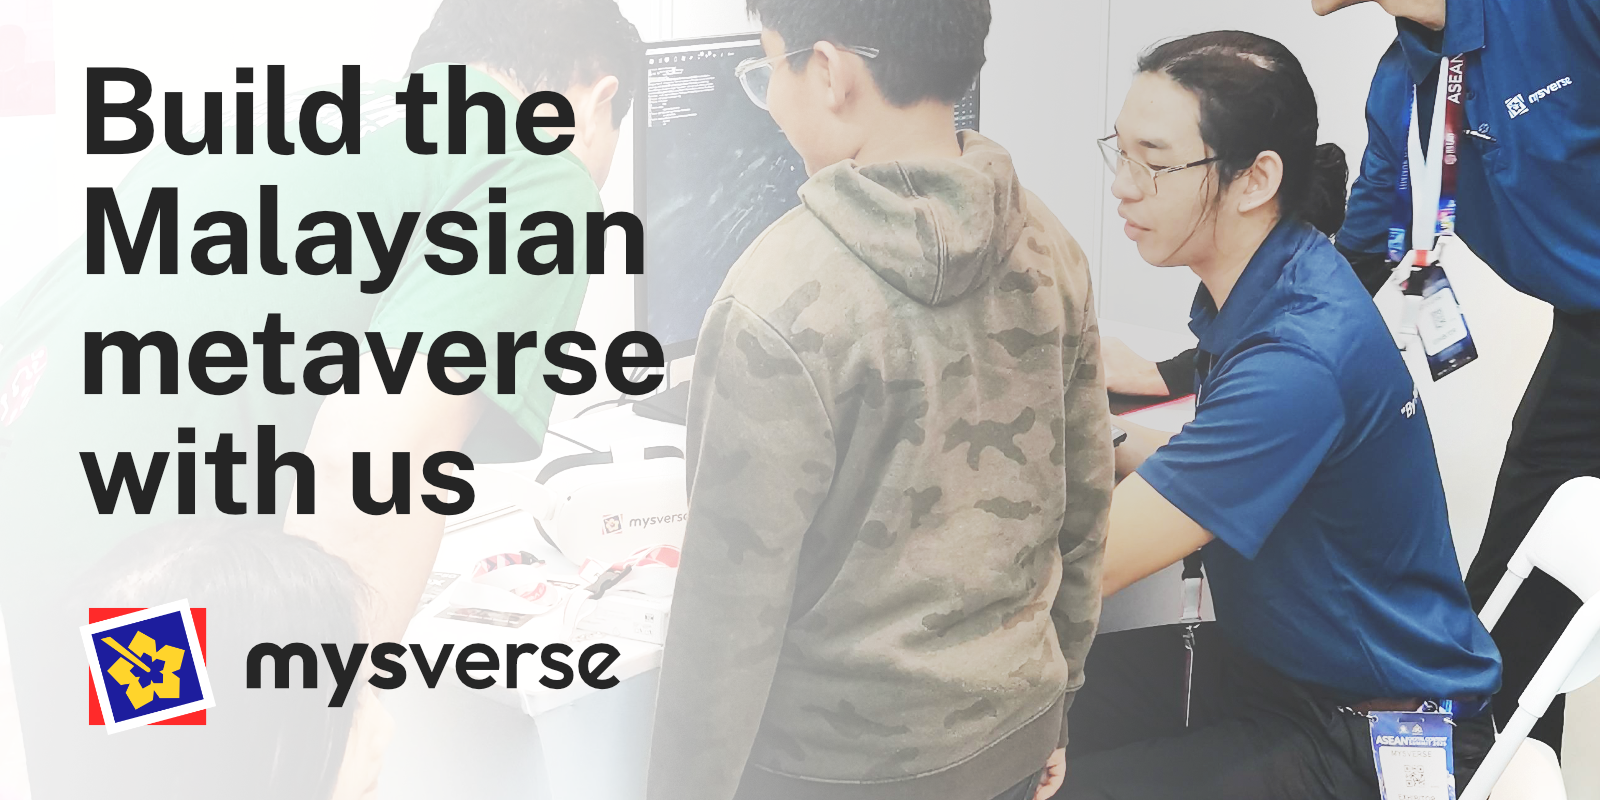
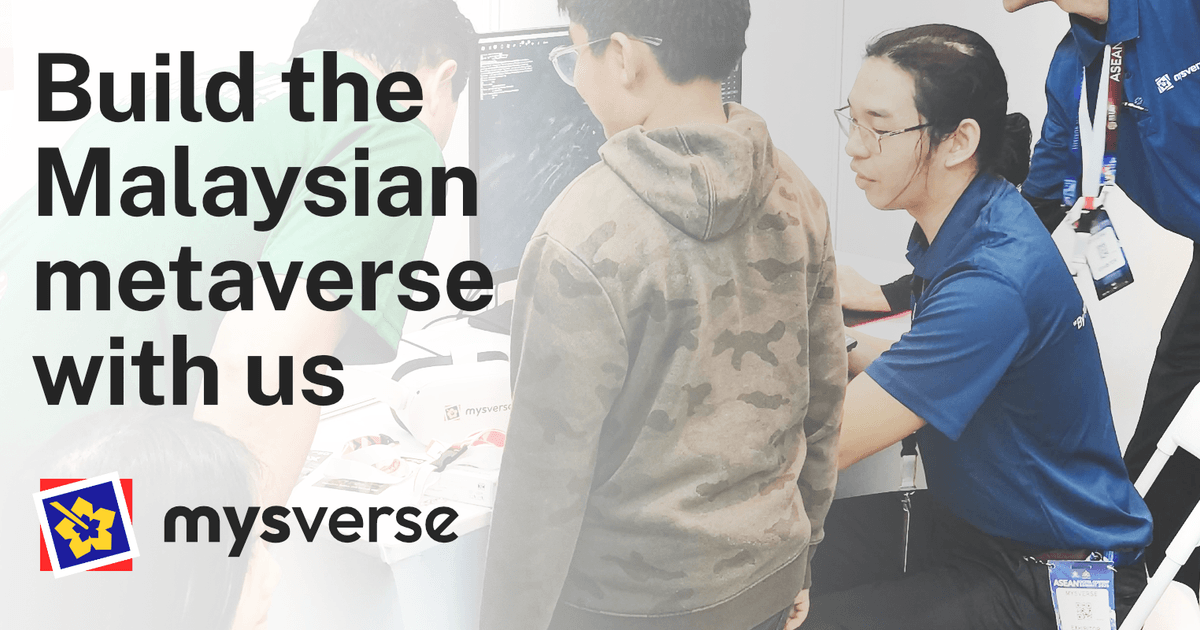
chore(hygiene): formatting, dead assets, primitive dogfooding
- prettier normalized across app/, styles/, data/ (7 drifted files)
- unreferenced beaufort_4k/beaufort_feature_2 webp deleted (~1.4MB);
  brand SVGs (BIMI/logomarks) kept — likely referenced externally
- contribute_og.png recompressed 1.28MB -> 289KB and resized to its
  declared 1200x630
- Section/Card primitives wired into Blog section, blog empty state,
  Contact + ContactRouter cards (knip-clean vs main baseline)
- ContactRouter: redundant focus-visible:outline dupes removed,
  remaining muted-text spellings onto tokens

diff --git a/app/_components/ContactRouter.tsx b/app/_components/ContactRouter.tsx
@@ -7,6 +7,7 @@ import { AnimatePresence, type Variants } from "motion/react";
 import { usePlausible } from "next-plausible";
 import { ArrowLeftIcon, ChevronRightIcon } from "@heroicons/react/20/solid";
 import Button from "app/_components/ui/Button";
+import { cardSurface } from "app/_components/ui/Card";
 import { springSnappy } from "app/_components/Motion/transitions";
 import {
   enquiryCategories,
@@ -120,12 +121,7 @@ export default function ContactRouter({ className }: { className?: string }) {
   }
 
   return (
-    <div
-      className={clsx(
-        "border-edge bg-surface-card flex h-full flex-col rounded-2xl border p-10 shadow-sm",
-        className
-      )}
-    >
+    <div className={clsx(cardSurface, "flex h-full flex-col p-10", className)}>
       <div aria-live="polite" className="relative grow">
         {/* Always mounted so it defines the card height on both steps */}
         <m.div
@@ -170,7 +166,7 @@ export default function ContactRouter({ className }: { className?: string }) {
                   onClick={() => selectCategory(category)}
                   whileHover={{ x: 4 }}
                   whileTap={{ scale: 0.98 }}
-                  className="group hover:border-primary focus-visible:outline-primary border-edge bg-surface-raised flex h-full w-full items-center gap-x-3 rounded-xl border p-3 text-left transition-colors focus-visible:outline focus-visible:outline-2 focus-visible:outline-offset-2"
+                  className="group hover:border-primary focus-visible:outline-primary border-edge bg-surface-raised flex h-full w-full items-center gap-x-3 rounded-xl border p-3 text-left transition-colors focus-visible:outline-2 focus-visible:outline-offset-2"
                 >
                   <span className="bg-primary/10 text-primary flex size-9 flex-none items-center justify-center rounded-lg">
                     {category.icon}
@@ -179,11 +175,11 @@ export default function ContactRouter({ className }: { className?: string }) {
                     <span className="text-strong block text-sm font-semibold">
                       {getCategoryLabel(category)}
                     </span>
-                    <span className="block text-xs leading-5 text-gray-600 dark:text-white/60">
+                    <span className="text-body block text-xs leading-5">
                       {getCategoryDesc(category)}
                     </span>
                   </span>
-                  <ChevronRightIcon className="size-5 flex-none text-gray-400 transition-transform group-hover:translate-x-0.5 motion-reduce:transition-none dark:text-white/40" />
+                  <ChevronRightIcon className="text-muted size-5 flex-none transition-transform group-hover:translate-x-0.5 motion-reduce:transition-none" />
                 </m.button>
               </m.li>
             ))}
@@ -207,7 +203,7 @@ export default function ContactRouter({ className }: { className?: string }) {
               <button
                 type="button"
                 onClick={goBack}
-                className="hover:text-primary focus-visible:outline-primary inline-flex items-center gap-x-1.5 text-sm font-medium text-gray-500 transition-colors focus-visible:outline focus-visible:outline-2 focus-visible:outline-offset-2 dark:text-white/60 dark:hover:text-white"
+                className="hover:text-primary focus-visible:outline-primary text-muted inline-flex items-center gap-x-1.5 text-sm font-medium transition-colors focus-visible:outline-2 focus-visible:outline-offset-2"
               >
                 <ArrowLeftIcon className="size-4" />
                 {t("back")}
@@ -215,9 +211,7 @@ export default function ContactRouter({ className }: { className?: string }) {
               <h3 className="text-strong mt-4 text-base leading-7 font-semibold">
                 {getResultHeading(selected)}
               </h3>
-              <p className="mt-2 text-sm leading-6 text-gray-600 dark:text-white/70">
-                {getResultBody(selected)}
-              </p>
+              <p className="body-sm mt-2">{getResultBody(selected)}</p>
               <div className="mt-6 flex flex-col gap-3 sm:flex-row sm:flex-wrap">
                 {selected.destinations.map((destination) => (
                   <DestinationCta
@@ -232,9 +226,7 @@ export default function ContactRouter({ className }: { className?: string }) {
           )}
         </AnimatePresence>
       </div>
-      <p className="mt-6 border-t border-gray-100 pt-4 text-xs leading-5 text-gray-500 dark:border-white/10 dark:text-white/60">
-        {t("note")}
-      </p>
+      <p className="border-edge caption mt-6 border-t pt-4">{t("note")}</p>
     </div>
   );
 }

diff --git a/app/[locale]/contribute/_components/TeamImpact.tsx b/app/[locale]/contribute/_components/TeamImpact.tsx
@@ -51,14 +51,12 @@ export default function TeamImpact() {
             />
             <div className="absolute inset-0 bg-linear-to-t from-gray-950/60 via-transparent to-transparent opacity-0 transition-opacity duration-300 group-hover:opacity-100" />
           </div>
-          <div className="p-6 sm:p-8 flex-1 flex flex-col justify-between">
+          <div className="flex flex-1 flex-col justify-between p-6 sm:p-8">
             <div>
               <h3 className="heading-4 group-hover:text-primary transition-colors">
                 {t("impact.players.title")}
               </h3>
-              <p className="body-sm mt-3">
-                {t("impact.players.desc")}
-              </p>
+              <p className="body-sm mt-3">{t("impact.players.desc")}</p>
             </div>
           </div>
         </m.div>
@@ -78,14 +76,12 @@ export default function TeamImpact() {
             />
             <div className="absolute inset-0 bg-linear-to-t from-gray-950/60 via-transparent to-transparent opacity-0 transition-opacity duration-300 group-hover:opacity-100" />
           </div>
-          <div className="p-6 sm:p-8 flex-1 flex flex-col justify-between">
+          <div className="flex flex-1 flex-col justify-between p-6 sm:p-8">
             <div>
               <h3 className="heading-4 group-hover:text-primary transition-colors">
                 {t("impact.networking.title")}
               </h3>
-              <p className="body-sm mt-3">
-                {t("impact.networking.desc")}
-              </p>
+              <p className="body-sm mt-3">{t("impact.networking.desc")}</p>
             </div>
           </div>
         </m.div>
@@ -105,14 +101,12 @@ export default function TeamImpact() {
             />
             <div className="absolute inset-0 bg-linear-to-t from-gray-950/60 via-transparent to-transparent opacity-0 transition-opacity duration-300 group-hover:opacity-100" />
           </div>
-          <div className="p-6 sm:p-8 flex-1 flex flex-col justify-between">
+          <div className="flex flex-1 flex-col justify-between p-6 sm:p-8">
             <div>
               <h3 className="heading-4 group-hover:text-primary transition-colors">
                 {t("impact.welcomePack.title")}
               </h3>
-              <p className="body-sm mt-3">
-                {t("impact.welcomePack.desc")}
-              </p>
+              <p className="body-sm mt-3">{t("impact.welcomePack.desc")}</p>
             </div>
           </div>
         </m.div>

diff --git a/app/_components/Blog/Blog.tsx b/app/_components/Blog/Blog.tsx
@@ -3,7 +3,7 @@ import { getPosts } from "utils/ghost";
 import BlogClient from "./BlogClient";
 import { Link } from "i18n/navigation";
 import { NewspaperIcon } from "@heroicons/react/20/solid";
-import Container from "app/_components/ui/Container";
+import Section from "app/_components/ui/Section";
 import { getTranslations } from "next-intl/server";
 
 export default async function Blog({ blogType }: { blogType: BlogType }) {
@@ -11,28 +11,23 @@ export default async function Blog({ blogType }: { blogType: BlogType }) {
   const t = await getTranslations("Blog");
 
   return (
-    <section className="py-12 sm:py-24">
-      <Container>
-        <div className="mx-auto max-w-2xl text-center">
-          <h2 className="heading-2">
-            {blogType === "mys" ? t("mys.title") : t("nws.title")}
-          </h2>
-          <p className="body-lg mt-2 mb-4">
-            {blogType === "mys" ? t("mys.desc") : t("nws.desc")}
-          </p>
-          <Link
-            href={`/blog/${blogType}`}
-            prefetch={false}
-            className="text-muted hover:text-primary inline-flex items-center gap-1 text-sm leading-6 font-medium transition"
-          >
-            <NewspaperIcon className="mr-1 size-5" />
-            {t("viewMore")}
-          </Link>
-        </div>
-        <div className="mx-auto mt-12 grid max-w-2xl auto-rows-fr grid-cols-1 gap-8 sm:mt-16 lg:mx-0 lg:max-w-none lg:grid-cols-2">
-          <BlogClient blogType={blogType} initialPosts={initialPosts} />
-        </div>
-      </Container>
-    </section>
+    <Section
+      title={blogType === "mys" ? t("mys.title") : t("nws.title")}
+      description={blogType === "mys" ? t("mys.desc") : t("nws.desc")}
+    >
+      <div className="mt-4 text-center">
+        <Link
+          href={`/blog/${blogType}`}
+          prefetch={false}
+          className="text-muted hover:text-primary inline-flex items-center gap-1 text-sm leading-6 font-medium transition"
+        >
+          <NewspaperIcon className="mr-1 size-5" />
+          {t("viewMore")}
+        </Link>
+      </div>
+      <div className="mx-auto mt-12 grid max-w-2xl auto-rows-fr grid-cols-1 gap-8 sm:mt-16 lg:mx-0 lg:max-w-none lg:grid-cols-2">
+        <BlogClient blogType={blogType} initialPosts={initialPosts} />
+      </div>
+    </Section>
   );
 }

diff --git a/app/_components/Projects/ItemList.tsx b/app/_components/Projects/ItemList.tsx
@@ -108,7 +108,7 @@ export default function ItemList({ projects }: { projects: Project[] }) {
                   {name}
                 </h3>
                 <div className="mt-1 flex flex-row items-center gap-x-3 sm:mt-0 sm:flex-row-reverse">
-                  <span className="text-strong my-0.5 inline-flex items-center gap-x-1.5 rounded-md px-2 py-2 text-xs font-medium ring-edge ring-1 ring-inset">
+                  <span className="text-strong ring-edge my-0.5 inline-flex items-center gap-x-1.5 rounded-md px-2 py-2 text-xs font-medium ring-1 ring-inset">
                     <svg
                       className={clsx(
                         "size-1.5",
@@ -126,7 +126,7 @@ export default function ItemList({ projects }: { projects: Project[] }) {
                     {launched}
                   </span>
                   {location && (
-                    <span className="text-strong my-0.5 inline-flex items-center gap-x-1.5 rounded-md px-2 py-2 text-xs font-medium ring-edge ring-1 ring-inset">
+                    <span className="text-strong ring-edge my-0.5 inline-flex items-center gap-x-1.5 rounded-md px-2 py-2 text-xs font-medium ring-1 ring-inset">
                       <MapPinIcon className="fill-strong size-4" />
                       {location}
                     </span>
@@ -136,7 +136,7 @@ export default function ItemList({ projects }: { projects: Project[] }) {
                       href={project.link}
                       target={project.local ? undefined : "_blank"}
                       prefetch={false}
-                      className="text-strong group my-0.5 inline-flex items-center gap-x-1.5 rounded-md px-2 py-2 text-xs font-medium ring-edge ring-1 transition ring-inset hover:bg-primary hover:text-white"
+                      className="text-strong group ring-edge hover:bg-primary my-0.5 inline-flex items-center gap-x-1.5 rounded-md px-2 py-2 text-xs font-medium ring-1 transition ring-inset hover:text-white"
                     >
                       {project.link.includes("roblox.com") ? (
                         project.link.includes("/games") ? (

diff --git a/app/_components/Contact.tsx b/app/_components/Contact.tsx
@@ -1,9 +1,11 @@
 import { EnvelopeIcon, MapIcon, PhoneIcon } from "@heroicons/react/20/solid";
+import clsx from "clsx";
 
 import { Link } from "i18n/navigation";
 import PlausibleWrapper from "./PlausibleWrapper";
 import ContactRouter from "./ContactRouter";
 import Container from "app/_components/ui/Container";
+import { cardSurface } from "app/_components/ui/Card";
 import { useTranslations } from "next-intl";
 
 export default function Contact() {
@@ -19,7 +21,7 @@ export default function Contact() {
                 {t("title")}
               </h2>
               <p className="body-base mt-4">{t("desc")}</p>
-              <div className="border-edge bg-surface-card mt-8 rounded-2xl border p-10 shadow-sm">
+              <div className={clsx(cardSurface, "mt-8 p-10")}>
                 <h3 className="text-strong text-base leading-7 font-semibold">
                   MYSverse Digital Ventures
                 </h3>

diff --git a/app/[locale]/contribute/_components/PositionCard.tsx b/app/[locale]/contribute/_components/PositionCard.tsx
@@ -68,9 +68,7 @@ export default function PositionCard({
       <RotatingCard
         className={clsx(
           "bg-surface-card flex h-full flex-col rounded-2xl border p-6 shadow-sm",
-          isLead
-            ? "border-primary/30 ring-primary/20 ring-1"
-            : "border-edge"
+          isLead ? "border-primary/30 ring-primary/20 ring-1" : "border-edge"
         )}
       >
         <div className="flex items-center gap-3">
@@ -99,9 +97,7 @@ export default function PositionCard({
     <RotatingCard
       className={clsx(
         "bg-surface-card h-full rounded-2xl border p-8 shadow-sm transition-shadow hover:shadow-lg",
-        isLead
-          ? "border-primary/30 ring-primary/30 ring-1"
-          : "border-edge"
+        isLead ? "border-primary/30 ring-primary/30 ring-1" : "border-edge"
       )}
     >
       <div className="flex h-full flex-col">

diff --git a/app/_components/Blog/BlogClient.tsx b/app/_components/Blog/BlogClient.tsx
@@ -4,6 +4,7 @@ import { PostsOrPages } from "@tryghost/content-api";
 import { useTranslations } from "next-intl";
 
 import type { BlogType } from "utils/ghost";
+import Card from "app/_components/ui/Card";
 import { BlogPostCard } from "./BlogPostCard";
 
 export default function BlogClient({
@@ -17,10 +18,10 @@ export default function BlogClient({
 
   if (!initialPosts?.length) {
     return (
-      <div className="border-edge bg-surface-card col-span-full rounded-2xl border p-10 text-center shadow-sm">
+      <Card padding="lg" className="col-span-full text-center">
         <h3 className="heading-4">{t("empty.title")}</h3>
         <p className="body-sm mt-2">{t("empty.desc")}</p>
-      </div>
+      </Card>
     );
   }
 

diff --git a/styles/globals.css b/styles/globals.css
@@ -83,8 +83,8 @@
   --color-edge: var(--ms-border-edge);
 
   /* System mono stack — no mono webfont is loaded on purpose. */
-  --font-mono: ui-monospace, "SF Mono", Menlo, Consolas, "Liberation Mono",
-    monospace;
+  --font-mono:
+    ui-monospace, "SF Mono", Menlo, Consolas, "Liberation Mono", monospace;
 }
 
 /* ------------------------------------------------------------------ */

diff --git a/app/[locale]/contribute/_components/ApplyButton.tsx b/app/[locale]/contribute/_components/ApplyButton.tsx
@@ -7,10 +7,7 @@ import type { OpenPosition } from "data/contribute";
 import { useTranslations } from "next-intl";
 
 export type ApplyPlacement =
-  | "home"
-  | "contribute_hero"
-  | "role_card"
-  | "final_cta";
+  "home" | "contribute_hero" | "role_card" | "final_cta";
 
 interface ApplyButtonProps {
   position: OpenPosition;

diff --git a/data/enquiry.tsx b/data/enquiry.tsx
@@ -32,11 +32,7 @@ export interface EnquiryDestination {
   external?: boolean;
   icon: ReactNode;
   plausibleType:
-    | "discord"
-    | "email"
-    | "whatsapp"
-    | "whatsapp_channel"
-    | "contribute";
+    "discord" | "email" | "whatsapp" | "whatsapp_channel" | "contribute";
   primary?: boolean;
 }
 

diff --git a/data/legal.ts b/data/legal.ts
@@ -10,4 +10,3 @@ export const legalPages = [
   { key: "privacy", title: "Privacy Policy", href: "/legal/privacy-policy" },
   { key: "refund", title: "Refund Policy", href: "/legal/refund-policy" }
 ];
-
